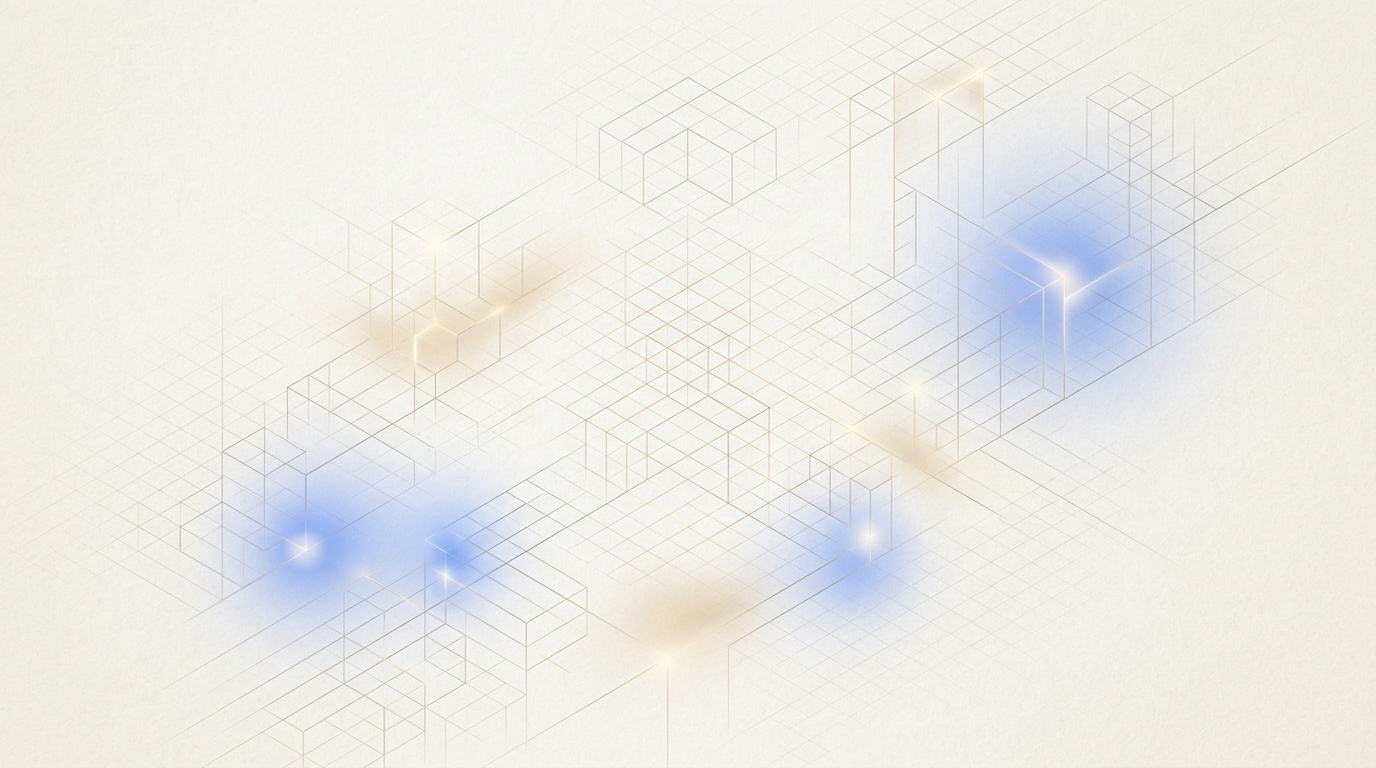
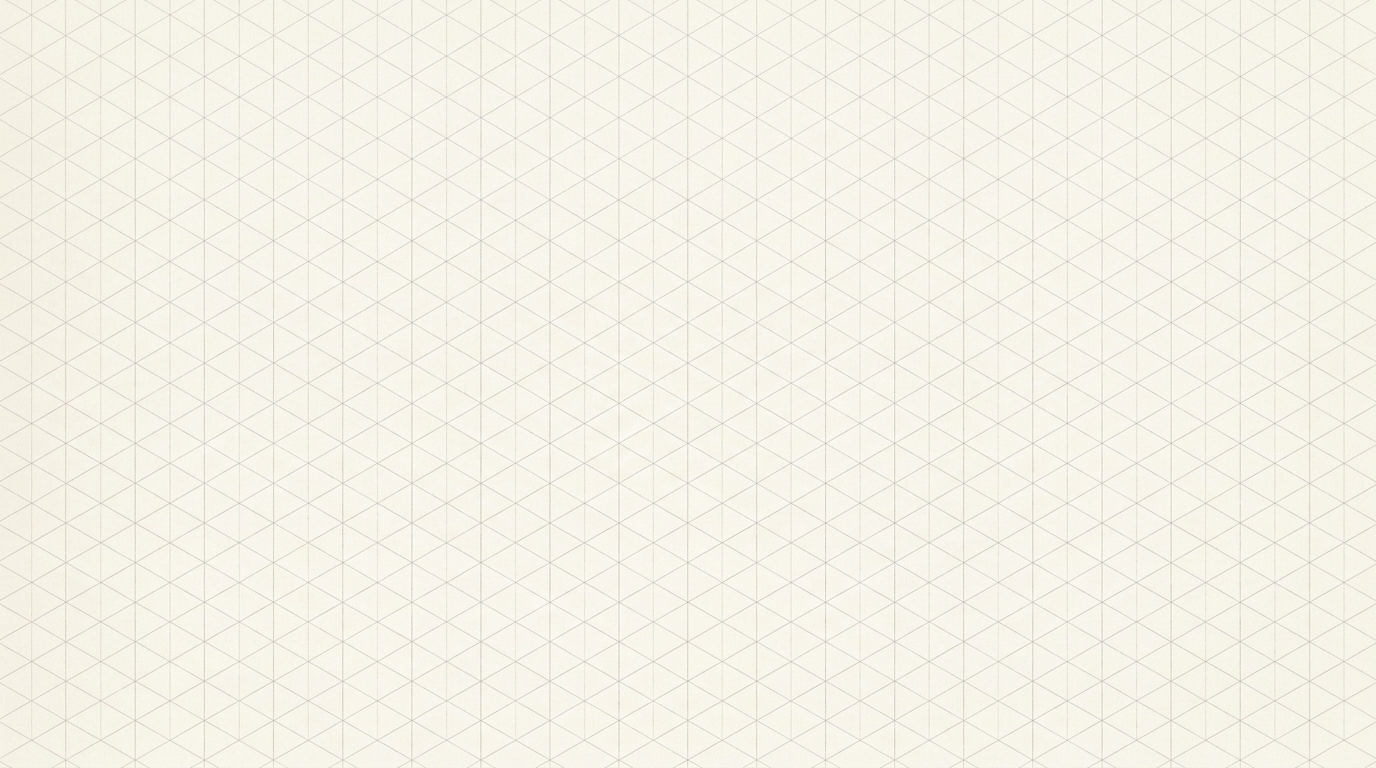
fix(hero): replace background with pure clean monochrome isometric drafting grid and remove all blue light flares

diff --git a/src/components/HeroSection.jsx b/src/components/HeroSection.jsx
@@ -35,12 +35,12 @@ export default function HeroSection({ onOpenTenantModal, onOpenDemoModal, onOpen
     <section className="relative w-full pt-24 sm:pt-32 pb-16 sm:pb-24 overflow-hidden text-center select-none z-0">
       
       {/* ═══════════════════════════════════════════════════
-          BESPOKE LUXURY ISOMETRIC PAPER BLUEPRINT HERO BACKGROUND
+          BESPOKE CLEAN ISOMETRIC PAPER BLUEPRINT HERO BACKGROUND
           ═══════════════════════════════════════════════════ */}
       <div className="absolute inset-0 pointer-events-none overflow-hidden z-0">
-        {/* 1. Bespoke Luxury Isometric Tech Wallpaper */}
+        {/* 1. Clean Isometric Blueprint Paper Wallpaper */}
         <div
-          className="absolute inset-0 opacity-80 bg-cover bg-center pointer-events-none"
+          className="absolute inset-0 opacity-85 bg-cover bg-center pointer-events-none"
           style={{
             backgroundImage: "url('/hero-bg.jpg')",
           }}
@@ -55,11 +55,7 @@ export default function HeroSection({ onOpenTenantModal, onOpenDemoModal, onOpen
           }}
         />
 
-        {/* 3. Soft Ambient Radiance Glows */}
-        <div className="absolute top-1/4 left-1/2 -translate-x-1/2 w-[750px] h-[380px] bg-gradient-to-tr from-blue-600/20 via-cyan-400/20 to-indigo-500/15 rounded-full blur-[100px] pointer-events-none" />
-        <div className="absolute top-1/3 left-1/4 w-[480px] h-[260px] bg-amber-400/15 rounded-full blur-[90px] pointer-events-none" />
-
-        {/* 4. Bottom Fade Transition into Cockpit Section */}
+        {/* 3. Bottom Fade Transition into Cockpit Section */}
         <div className="absolute bottom-0 inset-x-0 h-24 bg-gradient-to-b from-transparent to-[#f7f5f0] pointer-events-none" />
       </div>
 
